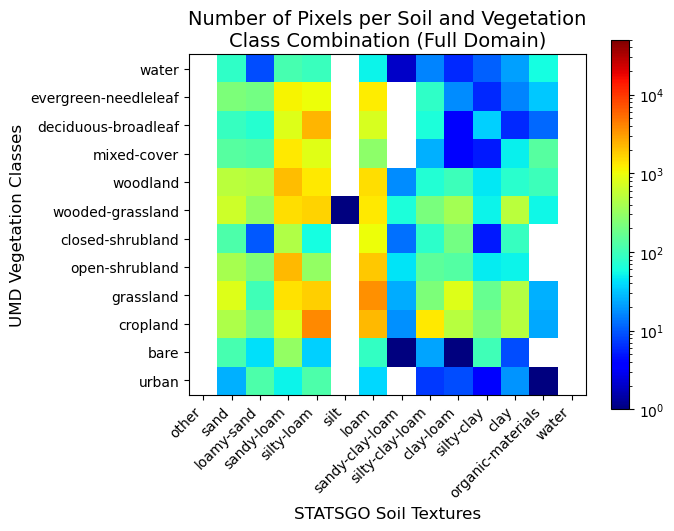
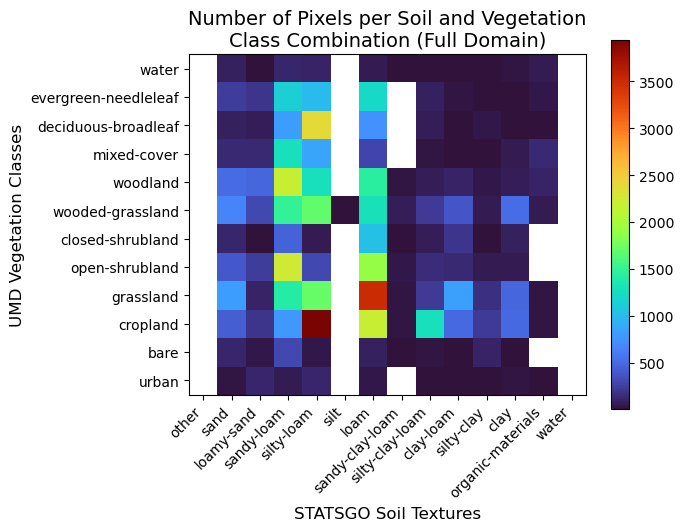
minor plotting stuff; push for consistency

diff --git a/scripts/plot_grid_eval.py b/scripts/plot_grid_eval.py
@@ -38,11 +38,12 @@ if __name__=="__main__":
             #"accrnn",
             #"lstm-rsm",
             #"acclstm-rsm-1",
-            "lstm-rsm-9",
+            #"lstm-rsm-9",
             #"accfnn-rsm-8",
             #"accrnn-rsm-2",
             #"accfnn-rsm-5",
             #"lstm-20",
+            "lstm-18",
             #"acclstm-rsm-4",
             ]
     ## evlauated features to plot (4th field of file name)
@@ -324,6 +325,7 @@ if __name__=="__main__":
                         "rsm-10":.05,
                         "rsm-40":.01,
                         "rsm-100":.005,
+                        "rsm-200":.005,
                         },
                     "cb_size":.8,
                     "cov_cmap":"jet",
@@ -340,11 +342,13 @@ if __name__=="__main__":
                         "rsm-10":-.05,
                         "rsm-40":-.01,
                         "rsm-100":-.005,
+                        "rsm-200":-.005,
                         },
                     "cov_vmax":{
                         "rsm-10":.05,
                         "rsm-40":.01,
                         "rsm-100":.005,
+                        "rsm-200":.005,
                         },
                     "cb_size":.8,
                     "cov_cmap":"seismic_r",
@@ -555,6 +559,7 @@ if __name__=="__main__":
                                 "rsm-10":.0015,
                                 "rsm-40":.0006,
                                 "rsm-100":.0004,
+                                "rsm-200":.0003,
                                 }[new_feat],
                             }[error_type],
                         }
@@ -581,6 +586,7 @@ if __name__=="__main__":
                                 "rsm-10":.06,
                                 "rsm-40":.03,
                                 "rsm-100":.03,
+                                "rsm-200":.03,
                                 }[new_feat],
                             }[error_type],
                         }

diff --git a/scripts/plot_static.py b/scripts/plot_static.py
@@ -60,7 +60,7 @@ def get_soil_veg_combo_masks(veg_ints:np.ndarray, soil_ints:np.ndarray,
     return combos,combo_masks
 
 def plot_soil_veg_matrix(combos, combo_masks, fig_path:Path,
-        title="", vmax=10000, cmap="magma", norm="linear"):
+        title="", vmax=None, cmap="magma", norm="linear"):
     unq_veg = tuple(np.unique(combos[:,0]))
     unq_soil = tuple(np.unique(combos[:,1]))
 
@@ -69,7 +69,9 @@ def plot_soil_veg_matrix(combos, combo_masks, fig_path:Path,
         tmp_veg_idx = unq_veg.index(combos[i,0])
         tmp_soil_idx = unq_soil.index(combos[i,1])
         matrix[tmp_veg_idx,tmp_soil_idx] = np.count_nonzero(combo_masks[...,i])
+    matrix[matrix==0] = np.nan
 
+    print(sorted(list(matrix[np.isfinite(matrix)]))[-12:])
     fig,ax = plt.subplots()
     cb = ax.imshow(matrix, cmap=cmap, vmax=vmax, norm=norm)
     fig.colorbar(cb)
@@ -130,10 +132,11 @@ if __name__=="__main__":
             title="Number of Pixels per Soil and Vegetation\nClass " + \
                     "Combination (Full Domain)",
             #cmap="magma_r",
-            cmap="jet",
-            norm="log",
-            vmax=50000,
+            cmap="turbo",
+            norm="linear",
+            #vmax=50000,
             )
+    exit(0)
     #'''
 
     ## Plot integer vegetation map

diff --git a/scripts/plot_learning_curves.py b/scripts/plot_learning_curves.py
@@ -1,0 +1,38 @@
+import numpy as np
+from pathlib import Path
+
+import tracktrain as tt
+
+if __name__=="__main__":
+    model_type = "lstm-s2s"
+    name_substring = "lstm-rsm"
+    metric = "res_only"
+
+    candidate_mds = [tt.ModelDir(p) for p in Path("data/models/new").iterdir()]
+    ms = tt.ModelSet([
+        md for md in candidate_mds
+        if md.config.get("model_type") == model_type
+        and name_substring in md.name
+        and metric in md.metric_labels
+        ])
+    model_dirs = []
+
+    ms.plot_metrics(
+            metrics=(metric,),
+            show=False,
+            fig_path=Path(f"figures/learning-curves_lstm-rsm_res.png"),
+            use_notes=False,
+                plot_spec={
+                    "ylim":(0,.75),
+                    "xlim":(0,310),
+                    #"facecolor":"xkcd:dark grey",
+                    "legend_cols":3,
+                    "cmap":"nipy_spectral",
+                    "xlabel":"Epoch",
+                    "ylabel":"Residual Mean Absolute Error",
+                    "title":f"Learning Curves ({name_substring} {metric})",
+                    "fontsize_title":24,
+                    "fontsize_labels":18,
+                    "fontsize_legend":10,
+                    },
+                )
